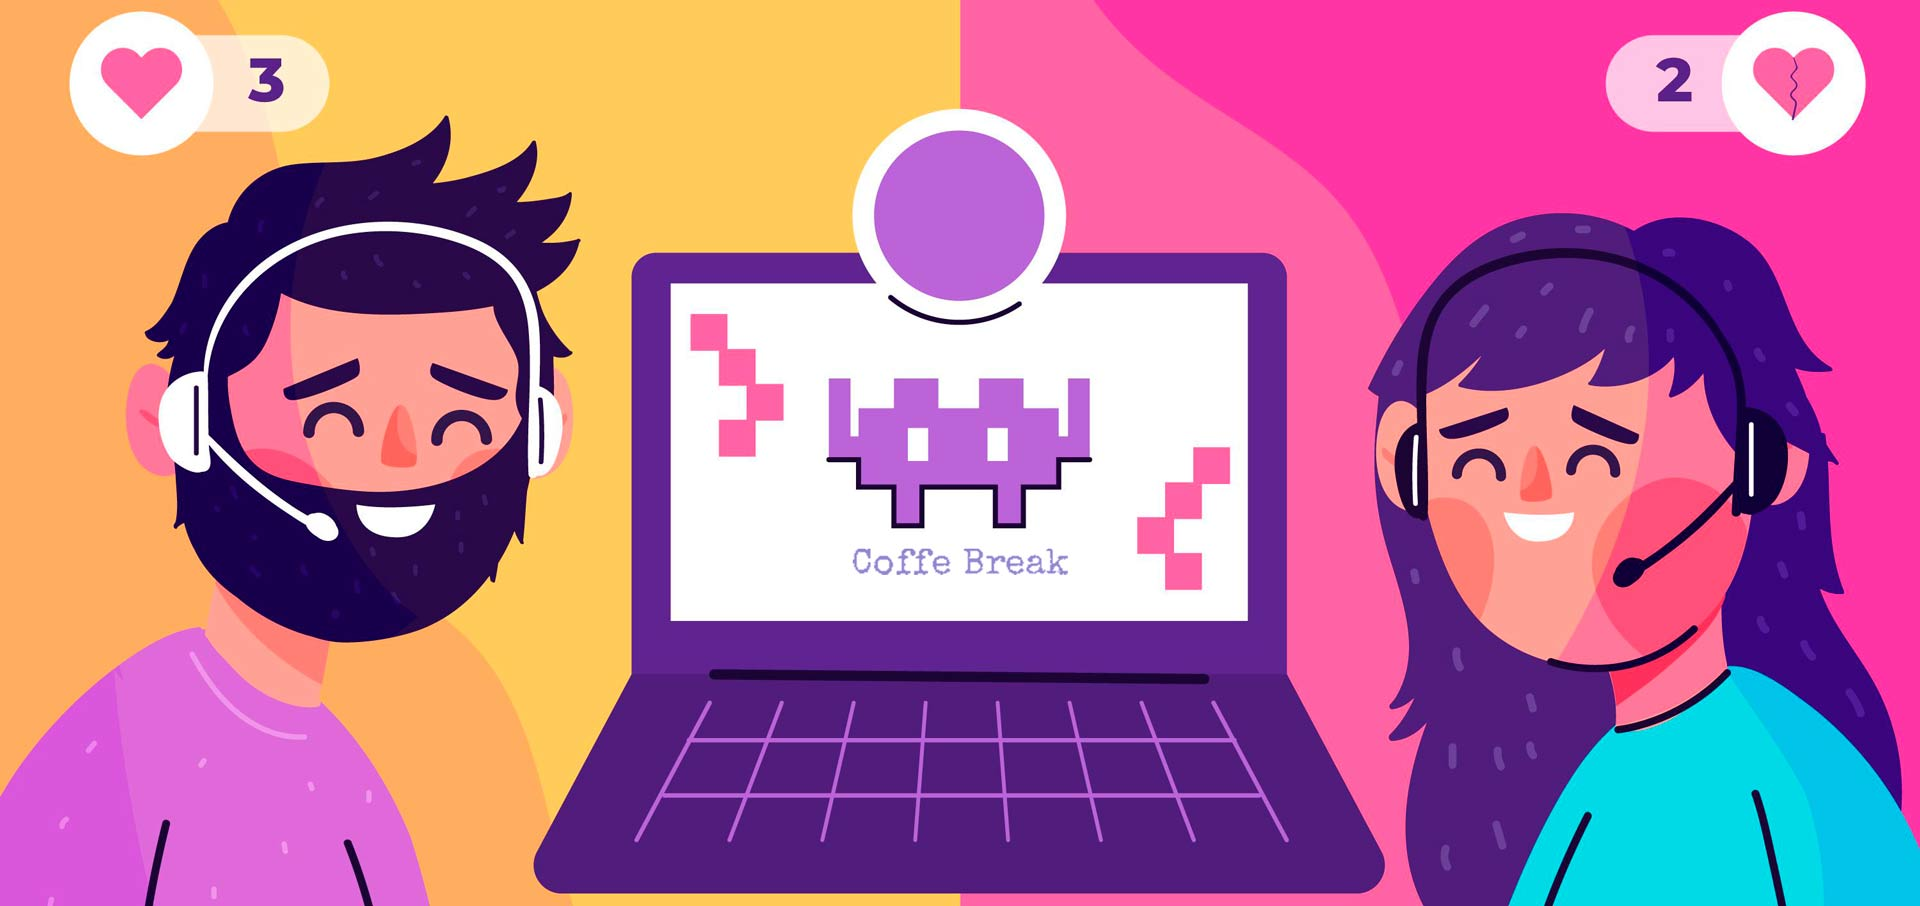
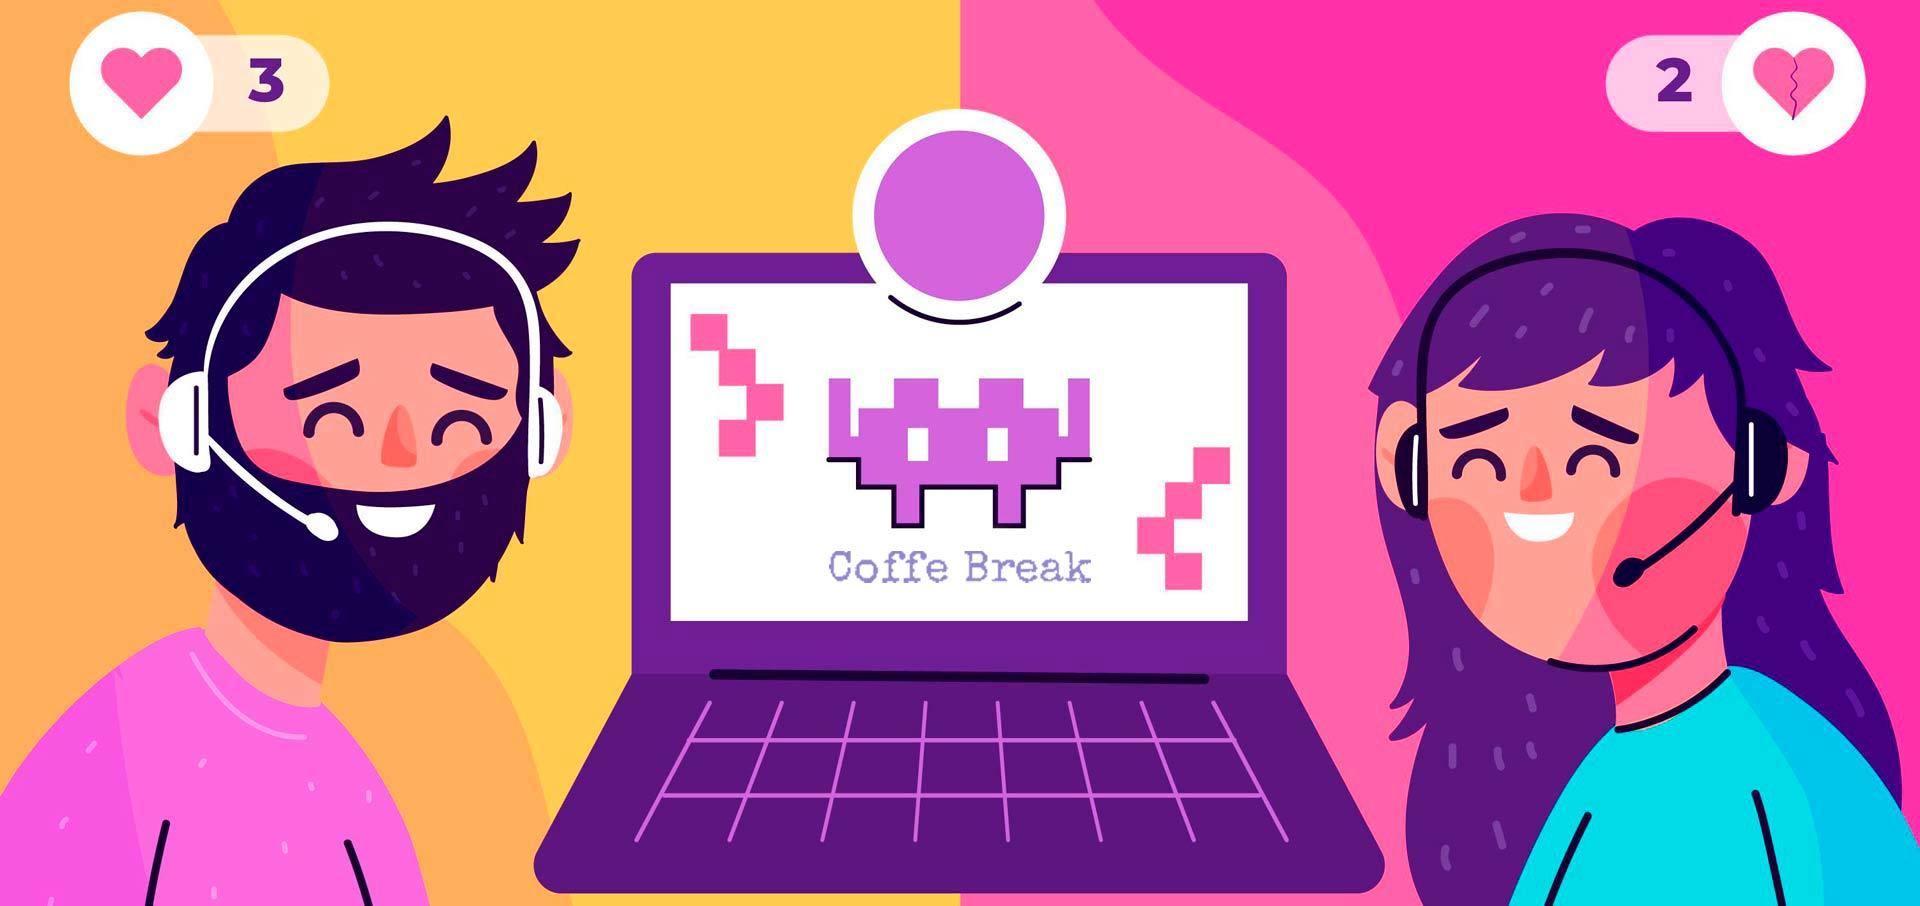
Alteração cabeçalho
Alteração no background do cabeçalho e também no elemento h2 do cabeçalho

Changed region(s): [[0.0, 0.6799, 0.25, 1.0], [0.4062, 0.4018, 0.5938, 0.649], [0.4375, 0.1545, 0.5625, 0.34]]

diff --git a/coffeebreak.html b/coffeebreak.html
@@ -6,7 +6,9 @@
     <meta charset="UTF-8">
     <link rel="stylesheet" href="css/coffeebreak.css">
     <meta name="viewport" content="width=device-width, initial-scale=1.0">
-    <link rel="shortcut icon" href="https://cdn3.iconfinder.com/data/icons/social-70/24/381_-_Social_coffee_cup_icon-512.png" type="image/x-icon">
+    <link rel="shortcut icon"
+        href="https://cdn3.iconfinder.com/data/icons/social-70/24/381_-_Social_coffee_cup_icon-512.png"
+        type="image/x-icon">
 </head>
 
 <body>
@@ -40,8 +42,10 @@
     <footer>
         <div class="rodape">
             <div class="conteudo-rodape">
-                <a href="https://github.com/Tklao/projeto-coffee-break" target="_blank"><img src="logos/iconfinder_githubpx_85137.png"></a>
-                <a href="https://www.instagram.com/_ps_dream/" target="_blank"><img src="logos/iconfinder_Instagram_1298747.png"></a>
+                <a href="https://github.com/Tklao/projeto-coffee-break" target="_blank"><img
+                        src="logos/iconfinder_githubpx_85137.png"></a>
+                <a href="https://www.instagram.com/_ps_dream/" target="_blank"><img
+                        src="logos/iconfinder_Instagram_1298747.png"></a>
                 <p>Agradecemos por sua visita!!!</p>
                 <span>© 2020</span>
             </div>

diff --git a/css/coffeebreak.css b/css/coffeebreak.css
@@ -86,10 +86,13 @@ h2 {
     color: #ffffff;
     letter-spacing: 1pt;
     font-size: 4.0vw;
-    text-shadow: 10px 10px 20px black;
+    text-shadow: 5px 5px 5px #1d1e1f;
     transition: all 0.50s linear;
-    font-weight: 900;
-    font-family: 'PT Serif', serif;
+    font-family: Courier New, monospace;
+    background-color: #1d1e1f8e;
+
+
+
 }
 
 /*espaçamento do subcabeçalho*/
@@ -132,11 +135,12 @@ h2 {
     font-size: 18pt;
     color: whitesmoke;
     padding: 50px;
-    
-    
+
+
 
 }
-.conteudo-rodape img{
+
+.conteudo-rodape img {
     width: 50px;
     height: 50px;
     padding: 10px;
